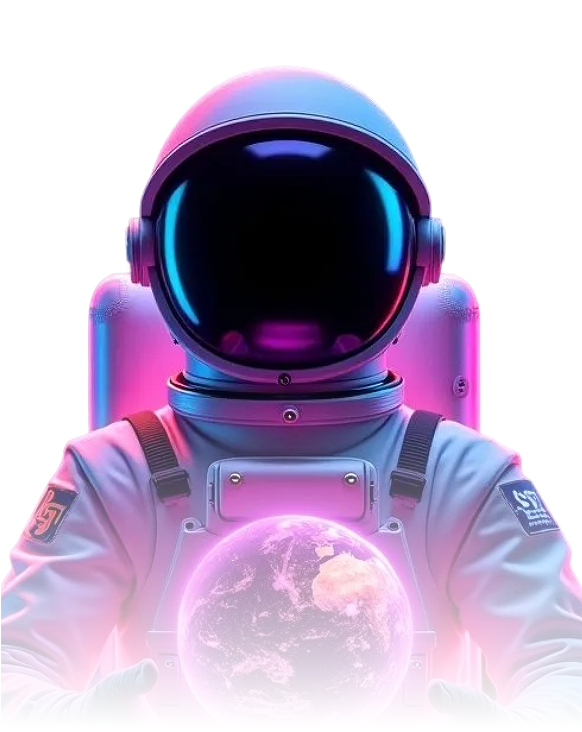
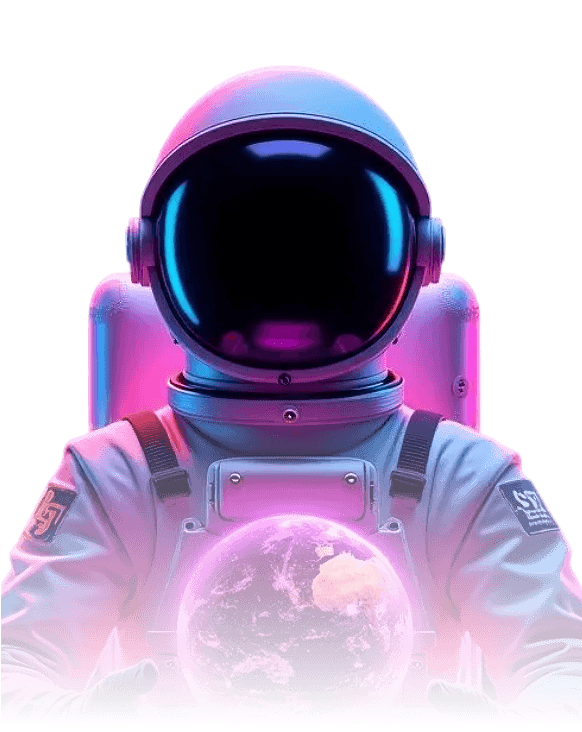
Add files via upload

Changed region(s): [[0.0619, 0.6612, 0.1237, 0.6913], [0.2784, 0.5109, 0.3093, 0.541]]

diff --git a/assets/js/main.js b/assets/js/main.js
@@ -239,8 +239,44 @@ window.addEventListener("load", refreshScrollTriggers, { once: true });
 if (document.fonts) document.fonts.ready.then(refreshScrollTriggers);
 
 const loader = document.querySelector(".astro-loader");
-const minimumLoaderTime = 500;
-const loaderStartedAt = performance.now();
+const loaderScene = loader?.querySelector(".loader-scene");
+const loaderPlanet = loader?.querySelector(".loader-planet");
+const loaderOrbit = loader?.querySelector(".loader-orbit-path");
+const loaderSatellite = loader?.querySelector(".loader-satellite");
+const reduceLoaderMotion = window.matchMedia("(prefers-reduced-motion: reduce)").matches;
+
+let resolveLoaderIntro;
+const loaderIntroComplete = new Promise((resolve) => {
+    resolveLoaderIntro = resolve;
+});
+
+// This is the only timeline dedicated to the preloader. The existing site
+// entrance and ScrollTrigger animations remain separate and unchanged.
+const loaderTimeline = gsap.timeline({ paused: true });
+
+if (reduceLoaderMotion) {
+    loaderTimeline
+        .set(loaderPlanet, { autoAlpha: 0, scale: 0.08 })
+        .set(loaderOrbit, { autoAlpha: 0, strokeDashoffset: 100 })
+        .set(loaderSatellite, { autoAlpha: 0, scale: 0.5, offsetDistance: "0%" })
+        .to(loaderPlanet, { autoAlpha: 1, scale: 1, duration: 0.2, ease: "power1.out" })
+        .to(loaderOrbit, { autoAlpha: 1, strokeDashoffset: 0, duration: 0.15, ease: "power1.out" })
+        .to(loaderSatellite, { autoAlpha: 1, scale: 1, duration: 0.1, ease: "power1.out" })
+        .call(resolveLoaderIntro);
+} else {
+    loaderTimeline
+        .set(loaderPlanet, { autoAlpha: 0, scale: 0.06 })
+        .set(loaderOrbit, { autoAlpha: 0, strokeDashoffset: 100 })
+        .set(loaderSatellite, { autoAlpha: 0, scale: 0.45, offsetDistance: "0%" })
+        .to(loaderPlanet, { autoAlpha: 1, scale: 1, duration: 1.05, ease: "power2.out" })
+        .to(loaderOrbit, { autoAlpha: 1, strokeDashoffset: 0, duration: 0.55, ease: "power1.out" }, "-=0.12")
+        .to(loaderSatellite, { autoAlpha: 1, scale: 1, duration: 0.3, ease: "power1.out" }, "-=0.1")
+        .addLabel("loader-ready")
+        .call(resolveLoaderIntro, [], "loader-ready")
+        .to(loaderSatellite, { offsetDistance: "100%", duration: 4.5, ease: "none", repeat: -1 }, "loader-ready");
+}
+
+loaderTimeline.play(0);
 
 function waitForImage(image) {
     return new Promise((resolve) => {
@@ -263,14 +299,23 @@ function waitForImage(image) {
 async function finishLoader() {
     // Only images that belong to the initial hero are relevant to this loader.
     const heroImages = [...document.querySelectorAll(".hero img")];
-    await Promise.all(heroImages.map(waitForImage));
+    await Promise.all([
+        Promise.all(heroImages.map(waitForImage)),
+        loaderIntroComplete
+    ]);
 
-    const remainingTime = Math.max(0, minimumLoaderTime - (performance.now() - loaderStartedAt));
-    if (remainingTime) {
-        await new Promise((resolve) => window.setTimeout(resolve, remainingTime));
-    }
+    const exitStart = loaderTimeline.time();
+    loaderTimeline
+        .to(loaderScene, { autoAlpha: 0, scale: 0.94, duration: 0.28, ease: "power2.in" }, exitStart)
+        .to(loader, { autoAlpha: 0, duration: 0.4, ease: "power2.inOut" }, exitStart + 0.12)
+        .call(() => {
+            loaderTimeline.kill();
+            loader?.remove();
+            startPageAfterLoader();
+        }, [], exitStart + 0.53);
+}
 
-    loader?.remove();
+function startPageAfterLoader() {
     document.documentElement.classList.remove("loader-active");
     document.body.classList.remove("loader-active");
     loaderIsActive = false;

diff --git a/assets/css/style.css b/assets/css/style.css
@@ -54,9 +54,105 @@ img {
     display: flex;
     align-items: center;
     justify-content: center;
-    color: white;
     z-index: 111;
-    background: #000;
+    overflow: hidden;
+    background:
+        radial-gradient(circle at 50% 48%, rgba(139, 92, 255, 0.16), transparent 30%),
+        radial-gradient(circle at 65% 72%, rgba(236, 72, 153, 0.08), transparent 28%),
+        #05010D;
+}
+
+.loader-space {
+    position: relative;
+    display: grid;
+    width: min(100%, 620px);
+    min-height: 100%;
+    place-items: center;
+}
+
+.loader-scene {
+    position: relative;
+    width: clamp(190px, 42vw, 340px);
+    aspect-ratio: 1;
+    will-change: transform, opacity;
+}
+
+.loader-planet-wrap {
+    position: absolute;
+    inset: 11%;
+    border-radius: 50%;
+}
+
+.loader-planet-wrap::before {
+    position: absolute;
+    inset: 12%;
+    border-radius: inherit;
+    background: rgba(168, 85, 247, 0.32);
+    box-shadow: 0 0 38px 18px rgba(139, 92, 255, 0.24);
+    content: "";
+}
+
+.loader-planet {
+    position: relative;
+    display: block;
+    width: 100%;
+    height: 100%;
+    object-fit: contain;
+    filter: drop-shadow(0 0 18px rgba(236, 72, 153, 0.24));
+    will-change: transform, opacity;
+}
+
+.loader-orbit {
+    position: absolute;
+    top: 12%;
+    left: -43%;
+    width: 186%;
+    height: 76%;
+    overflow: visible;
+    pointer-events: none;
+}
+
+.loader-orbit-path {
+    stroke: url(#loader-orbit-gradient);
+    stroke-width: 1.4;
+    stroke-dasharray: 100;
+    stroke-dashoffset: 100;
+    opacity: 0;
+    filter: drop-shadow(0 0 3px rgba(168, 85, 247, 0.52));
+}
+
+.loader-satellite {
+    position: absolute;
+    top: 50%;
+    left: 50%;
+    width: clamp(14px, 4vw, 26px);
+    aspect-ratio: 1;
+    border-radius: 50%;
+    box-shadow: 0 0 14px 4px rgba(56, 189, 248, 0.42);
+    offset-path: ellipse(84% 28% at 50% 50%);
+    offset-distance: 0%;
+    offset-rotate: 0deg;
+    will-change: transform, opacity, offset-distance;
+}
+
+@media (max-width: 575px) {
+    .loader-scene {
+        width: clamp(175px, 58vw, 250px);
+    }
+
+    .loader-orbit {
+        left: -46%;
+        width: 192%;
+    }
+}
+
+@media (prefers-reduced-motion: reduce) {
+    .loader-planet,
+    .loader-orbit-path,
+    .loader-satellite,
+    .loader-scene {
+        will-change: auto;
+    }
 }
 
 /* GSAP reveal transforms begin outside their own section. Clip those transient
@@ -117,6 +213,10 @@ img {
     font-size: 14px;
     padding: 0;
     font-family: "Roboto", sans-serif;
+}
+
+.header .navbar-nav .nav-item .nav-link:hover{
+    color: #FFF;
 }
 
 .header .nav-toggler {

diff --git a/index.html b/index.html
@@ -18,8 +18,26 @@
 </head>
 
 <body class="loader-active">
-    <div class="astro-loader">
-        <h5>Astrocore</h5>
+    <div class="astro-loader" role="status" aria-label="Loading Astrocore">
+        <div class="loader-space" aria-hidden="true">
+            <div class="loader-scene">
+                <div class="loader-planet-wrap">
+                    <img src="./assets/img/planet.png" alt="" class="loader-planet">
+                </div>
+                <svg class="loader-orbit" viewBox="0 0 300 200" fill="none" focusable="false">
+                    <defs>
+                        <linearGradient id="loader-orbit-gradient" x1="20" y1="100" x2="280" y2="100"
+                            gradientUnits="userSpaceOnUse">
+                            <stop stop-color="#38BDF8" stop-opacity=".25" />
+                            <stop offset=".5" stop-color="#A855F7" stop-opacity=".95" />
+                            <stop offset="1" stop-color="#EC4899" stop-opacity=".35" />
+                        </linearGradient>
+                    </defs>
+                    <ellipse class="loader-orbit-path" cx="150" cy="100" rx="142" ry="66" pathLength="100" />
+                </svg>
+                <img src="./assets/img/planet.png" alt="" class="loader-satellite">
+            </div>
+        </div>
     </div>
 
     <header class="header">
